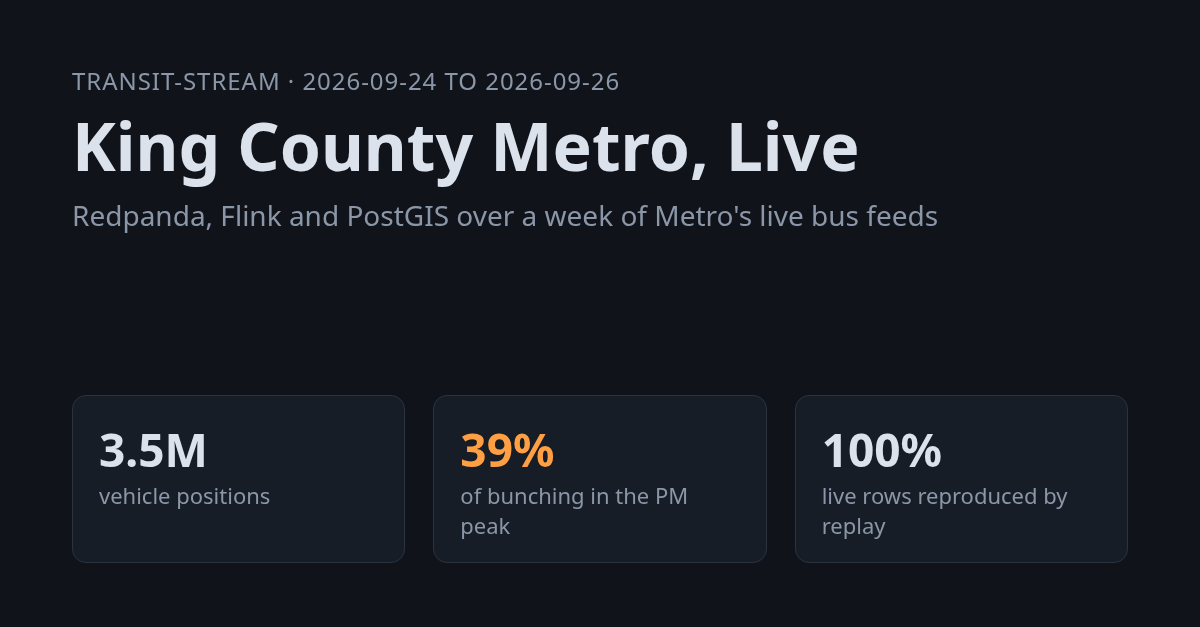
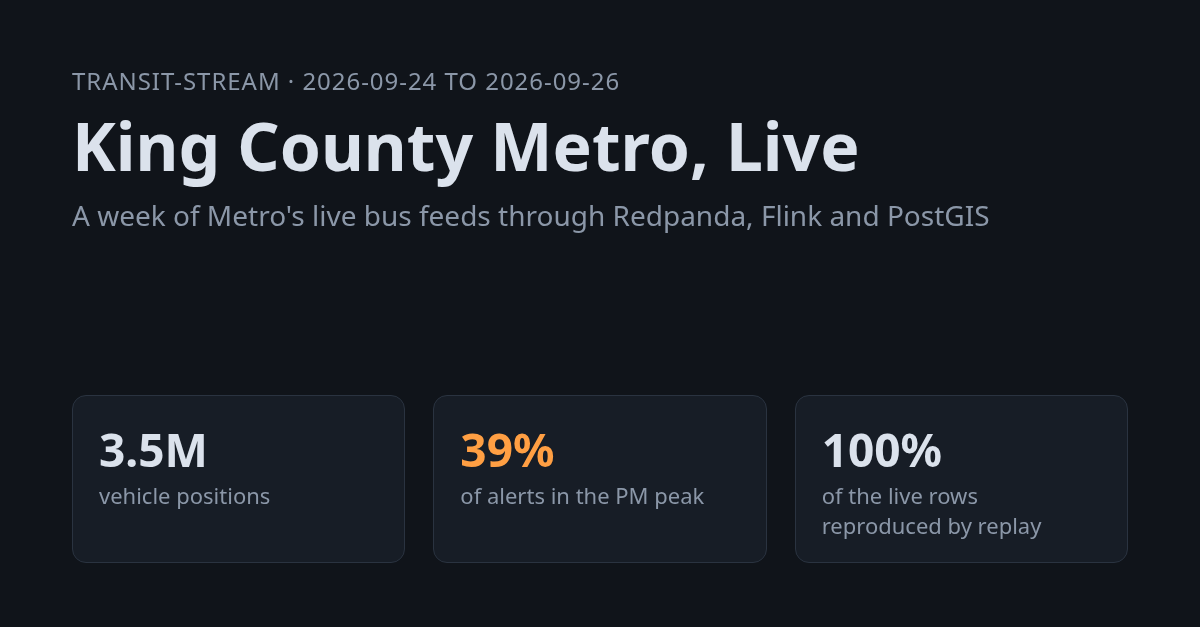
Site copy: plainer wording on the page and the link card

Changed region(s): [[0.0617, 0.303, 0.8325, 0.3636], [0.6783, 0.7576, 0.8942, 0.8788], [0.37, 0.7576, 0.5858, 0.8485]]

diff --git a/site/index.html b/site/index.html
@@ -7,11 +7,11 @@
 <!-- Link preview metadata, as in Wa_Parcel_Pipeline: LinkedIn, Slack and
      iMessage build their cards from these tags alone. The image is
      og-card.png, rendered from the same site/data files by `make og-card`. -->
-<meta name="description" content="A week of King County Metro's live bus feeds, streamed through Redpanda and Flink into PostGIS: where buses bunch, how far off the arrival predictions run, and a replay that reproduced the live pipeline from archived bytes.">
+<meta name="description" content="A week of King County Metro's live bus feeds, streamed through Redpanda and Flink into PostGIS: where buses bunch, how wrong the arrival predictions are, and a replay that reproduced the live pipeline from archived bytes.">
 <meta property="og:type" content="website">
 <meta property="og:site_name" content="transit-stream">
 <meta property="og:title" content="King County Metro, Live">
-<meta property="og:description" content="A week of Metro's live bus feeds through Redpanda, Flink and PostGIS: where buses bunch, how far off the predictions run, and a replay that reproduced the pipeline from archived bytes.">
+<meta property="og:description" content="A week of Metro's live bus feeds through Redpanda, Flink and PostGIS: where buses bunch, how wrong the predictions are, and a replay that reproduced the pipeline from archived bytes.">
 <meta property="og:url" content="https://logan-selley.github.io/King-County-Metro-Transit-Streaming/">
 <meta property="og:image" content="https://logan-selley.github.io/King-County-Metro-Transit-Streaming/og-card.png">
 <meta property="og:image:type" content="image/png">
@@ -78,9 +78,9 @@
 <body>
 <header>
   <h1>King County Metro, Live</h1>
-  <p>A week of Metro's vehicle positions and arrival predictions, polled every 20 seconds and streamed
-     through Redpanda and Flink into PostGIS. Where buses bunch, how far off the arrival predictions run, and
-     whether a replay of the archived bytes reproduces what the live pipeline wrote.</p>
+  <p>A week of King County Metro's vehicle positions and arrival predictions, polled every 20 seconds and
+     streamed through Redpanda and Flink into PostGIS. Where buses bunch, how wrong the arrival predictions
+     are, and whether a replay of the archived bytes reproduces what the live pipeline wrote.</p>
   <p class="note" id="window-note"></p>
 </header>
 
@@ -93,7 +93,7 @@
   <div class="kpi" id="kpi"></div>
 
   <h2>When buses bunch</h2>
-  <p>Alerts per day in each hour, Pacific time. Two buses on the same route and direction within
+  <p>Alerts by hour, as a rate per day, Pacific time. Two buses on the same route and direction within
      1,000 ft, in two consecutive one-minute windows, after the terminal gate. Weekdays and weekends
      are rates, so five weekdays do not outweigh two weekend days.</p>
   <div class="card" style="margin-top:12px">
@@ -103,14 +103,14 @@
   </div>
 
   <h2>Which routes</h2>
-  <p>Raw counts favour frequent routes, which is the point: bunching needs a headway short enough to
-     collapse. The PM peak share is the share of a route's alerts between 16:00 and 18:59.</p>
+  <p>Raw counts favour frequent routes: bunching needs a headway short enough to collapse.
+     The PM peak share is the share of a route's alerts between 16:00 and 18:59.</p>
   <div class="table-wrap"><table id="routes"></table></div>
 
-  <h2>How far off the arrival predictions run</h2>
-  <p>Trip-update predictions joined to the arrivals they predicted, by how far ahead each was issued.
-     The typical miss grows with lead time, and the mean error is positive at every forward lead: the estimates
-     run pessimistic, and buses arrive earlier than the sign says.</p>
+  <h2>How wrong the arrival predictions are</h2>
+  <p>Trip-update predictions joined to the arrivals they predicted, grouped by how far ahead each was
+     issued. The typical miss grows with lead time, and the mean error is positive at every forward lead:
+     the estimates run pessimistic, so buses arrive earlier than the sign promised.</p>
   <div class="card" style="margin-top:12px">
     <div class="note"><span class="key"><span style="background:var(--accent)"></span>median |error|</span>
       <span class="key"><span style="background:var(--dim)"></span>90th percentile</span>
@@ -206,13 +206,13 @@ Promise.all(['kpis.json', 'bunching_by_hour.json', 'routes.json', 'hotspots.geoj
   const k = kpis.data;
   document.getElementById('window-note').textContent =
     `Study window: ${k.first} to ${k.last} (${k.days} days, Pacific). ` +
-    'A snapshot: the site is static, and the numbers are the ones the marts held when it was exported.';
+    'Static snapshot: these are the numbers the marts held when it was cut.';
 
   document.getElementById('kpi').innerHTML = [
-    ['Positions', fmt(k.positions), `${pct(k.live_share)} of minutes live`],
+    ['Positions', fmt(k.positions), `the feed was live in ${pct(k.live_share)} of minutes`],
     ['Bunching alerts', fmt(k.alerts), `${fmt(k.alerts_per_day, 1)} a day`],
     ['In the PM peak', pct(k.pm_peak_share), '16:00 to 18:59'],
-    ['On the map', pct(k.located_share), 'alerts placed by their vehicles'],
+    ['On the map', pct(k.located_share), 'alerts placed from vehicle positions'],
     ['Predictions checked', fmt(k.predictions), 'against observed arrivals'],
     ['Typical miss', `${k.median_abs_error_short_s} s to ${k.median_abs_error_long_s} s`, 'shortest to longest lead'],
   ].map(([h, v, s]) => `<div class="card"><h3>${h}</h3><div>${v}</div><small>${s}</small></div>`).join('');
@@ -273,7 +273,8 @@ Promise.all(['kpis.json', 'bunching_by_hour.json', 'routes.json', 'hotspots.geoj
     { values: fwd.map(p => p.mean_error_s), color: css('--warm') }] });
   const past = curve.data.find(p => p.lead_bucket === 'past');
   document.getElementById('curve-note').textContent =
-    `${fmt(fwd.reduce((a, p) => a + p.predictions, 0))} predictions, by UTC day (the prediction tables' unit).` +
+    `${fmt(fwd.reduce((a, p) => a + p.predictions, 0))} predictions, grouped by UTC day, the unit the` +
+    ' prediction tables use.' +
     (past ? ` Not drawn: ${fmt(past.predictions)} issued after the bus had already arrived.` : '');
 
   // --- replay ------------------------------------------------------------
@@ -281,14 +282,14 @@ Promise.all(['kpis.json', 'bunching_by_hour.json', 'routes.json', 'hotspots.geoj
   const day = R.window.start.slice(0, 10);
   document.getElementById('replay-intro').textContent =
     `One day, ${day} Pacific, re-run from the raw archive through the same producer, enrichment and Flink code the ` +
-    'live pipeline runs, into an isolated namespace. The baseline has to reproduce what live wrote before an ' +
-    'experiment on top of it means anything.';
+    'live pipeline runs, into an isolated namespace. The replay has to reproduce what live wrote, or an ' +
+    'experiment built on it proves nothing.';
   document.getElementById('replay-kpi').innerHTML = [
     ['Live rows reproduced', F.enriched.matched === F.enriched.live_rows ? `all ${fmt(F.enriched.live_rows)}`
       : `${fmt(F.enriched.matched)} of ${fmt(F.enriched.live_rows)}`, `${fmt(F.enriched.live_only)} missing from the replay`],
     ['Live alerts matched', `${fmt(F.alerts.matched)} of ${fmt(F.alerts.live)}`,
       Object.keys(F.alerts.field_mismatches).length ? 'some fields differ on those' : 'zero field differences on those'],
-    ['Rows live lost', fmt(F.enriched.replay_only), 'the archive kept them; live never landed them'],
+    ['Rows only the replay has', fmt(F.enriched.replay_only), 'the archive kept them; live never landed them'],
     ['Gate off', `${fmt(E.gate_off)} alerts`, `against ${fmt(E.gate_on)} with it on`],
   ].map(([h, v, s]) => `<div class="card"><h3>${h}</h3><div>${v}</div><small>${s}</small></div>`).join('');
 
@@ -300,11 +301,11 @@ Promise.all(['kpis.json', 'bunching_by_hour.json', 'routes.json', 'hotspots.geoj
   table(document.getElementById('gate-routes'), ['Route', 'Gate on', 'Gate off', 'Removed'],
     moved.map(r => [r.route, fmt(r.gate_on), fmt(r.gate_off), pct(1 - r.gate_on / r.gate_off, 0)]));
   document.getElementById('gate-finding').innerHTML =
-    `<b>The gate hides noise, and its absence hides signal.</b> With the gate off, ${fmt(E.added)} alerts appear, ` +
+    `<b>Two things happen with the gate off.</b> ${fmt(E.added)} alerts appear, ` +
     `${fmt(E.added_by_cause.terminal || 0)} of them with a bus still in its first three stops, which the gate drops by design. ` +
-    `But ${fmt(E.removed)} alerts also disappear, ${fmt(E.removed_min_seq['4+'] || 0)} of them with both buses past ` +
-    `their third stop, and ${fmt(E.removed_by_cause.suppressed || 0)} because an alert the gate would have dropped ` +
-    `had already started the same pair's ten-minute cooldown. ` +
+    `It also removes ${fmt(E.removed)} alerts. ${fmt(E.removed_min_seq['4+'] || 0)} of them have both buses past ` +
+    `their third stop, and ${fmt(E.removed_by_cause.suppressed || 0)} were swallowed by a ten-minute cooldown ` +
+    `started by an alert the gate would have dropped. ` +
     `The PM peak's share is ${pct(E.pm_peak_share.gate_on)} with the gate and ${pct(E.pm_peak_share.gate_off)} without.`;
 
   table(document.getElementById('health'), ['Day', 'Minutes', 'Silent', 'Live', 'Positions', 'Typical lag'],

diff --git a/publish/card.py b/publish/card.py
@@ -47,12 +47,12 @@ CARD = Template("""<!DOCTYPE html><html><head><meta charset="utf-8"><style>
   <div>
     <div class="eyebrow">transit-stream &middot; ${first} to ${last}</div>
     <h1>King County Metro, Live</h1>
-    <div class="sub">Redpanda, Flink and PostGIS over a week of Metro's live bus feeds</div>
+    <div class="sub">A week of Metro's live bus feeds through Redpanda, Flink and PostGIS</div>
   </div>
   <div class="stats">
     <div class="stat"><b>${positions}</b><span>vehicle positions</span></div>
-    <div class="stat"><b class="hot">${pm_peak}</b><span>of bunching in the PM peak</span></div>
-    <div class="stat"><b>${replayed}</b><span>live rows reproduced by replay</span></div>
+    <div class="stat"><b class="hot">${pm_peak}</b><span>of alerts in the PM peak</span></div>
+    <div class="stat"><b>${replayed}</b><span>of the live rows reproduced by replay</span></div>
   </div>
 </body></html>""")
 
